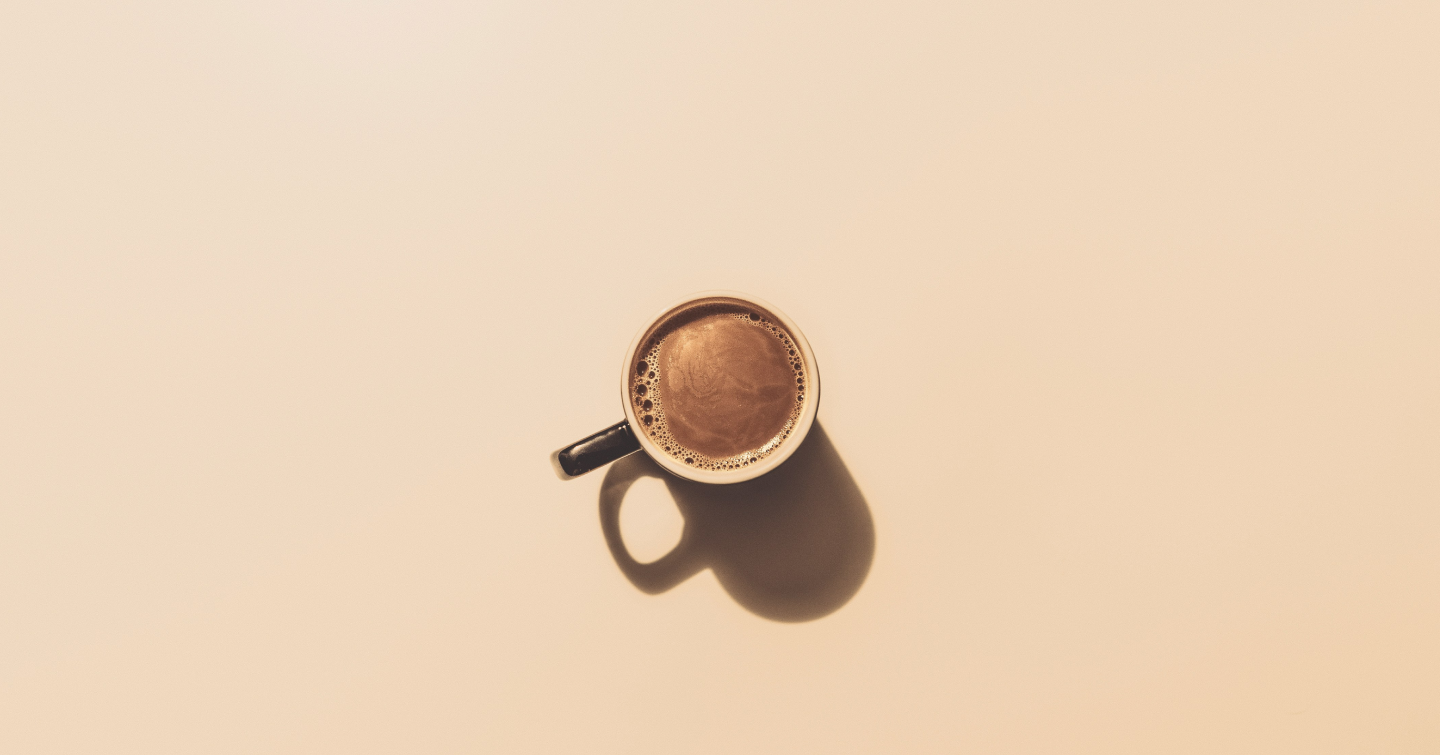
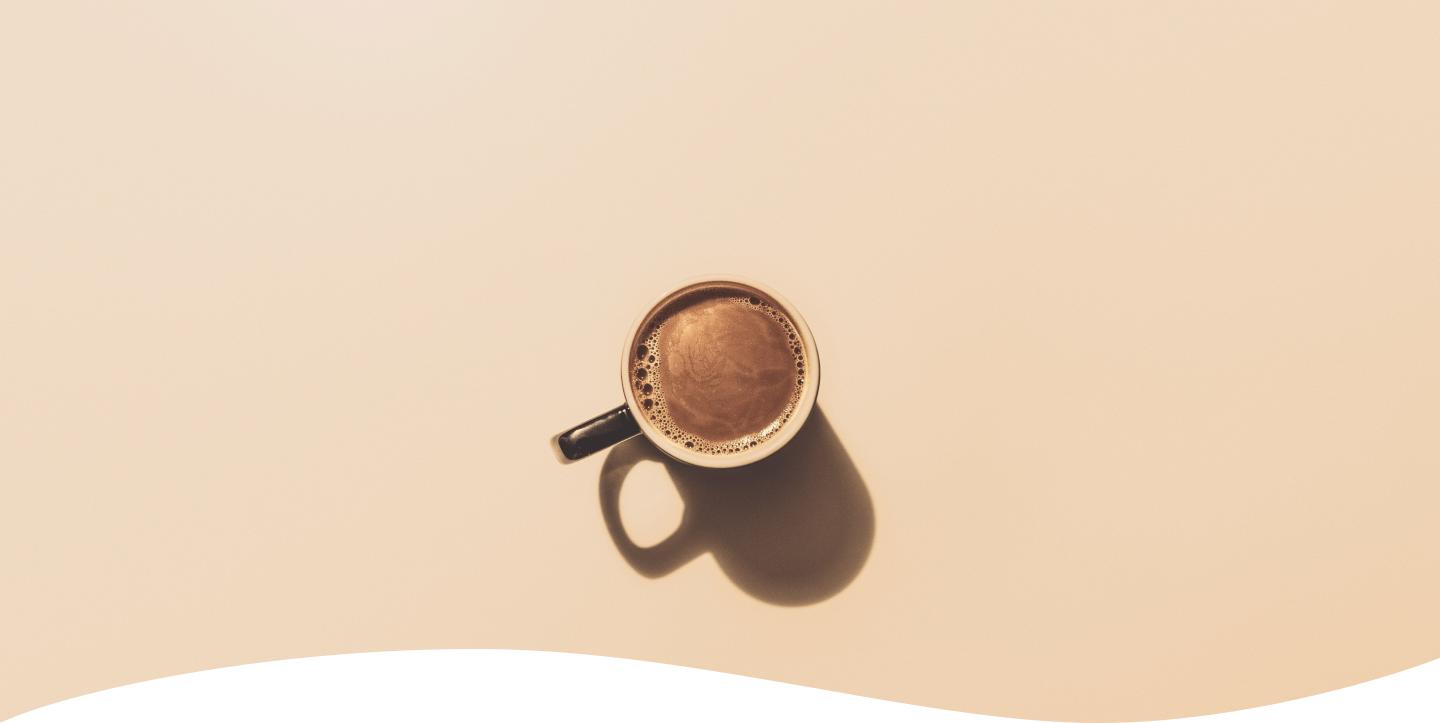
update bg image

diff --git a/index.html b/index.html
@@ -14,9 +14,7 @@
             <img style="width: 1440px; height: 755px; left: 0px; position: absolute" src="assets/images/homepage_bg.png"/>
             
             <!-- Logo -->
-            <div style="width: 1440px; height: 106px; left: 1440px; top: 821px; position: absolute; transform: rotate(180deg); transform-origin: 0 0; background: white"></div>
             <div style="left: 80px; top: 48px; position: absolute; color: #613400; font-size: 40px; font-family: Kanit; font-weight: 700; word-wrap: break-word">BetterDay</div>
-            
             <div style="left: 81px; top: 103px; position: absolute; flex-direction: column; justify-content: center; align-items: flex-start; display: inline-flex">
                 <div style="color: #613400; font-size: 24px; font-family: Karla; font-weight: 500; line-height: 22px; word-wrap: break-word">coffee shop</div>
             </div>
@@ -37,7 +35,7 @@
             </div>
 
             <!-- Our highlights heading -->
-            <div style="left: 74px; top: 753px; position: absolute; justify-content: flex-start; align-items: center; gap: 4px; display: inline-flex">
+            <div style="left: 74px; top: 775px; position: absolute; justify-content: flex-start; align-items: center; gap: 4px; display: inline-flex">
                 <div style="text-align: center; color: #613400; font-size: 36px; font-family: Karla; font-weight: 700; line-height: 40px; word-wrap: break-word">Our Highlights</div>
             </div>
             
@@ -61,20 +59,23 @@
                 </div>
             </div>
 
-            <div style="width: 58px; height: 58px; left: 67px; top: 730px; position: absolute; justify-content: center; align-items: center; display: inline-flex">
+            <!-- Down circle icon -->
+            <div style="width: 58px; height: 58px; left: 67px; top: 665px; position: absolute; justify-content: center; align-items: center; display: inline-flex">
                 <div style="width: 58px; height: 58px; position: relative; flex-direction: column; justify-content: flex-start; align-items: flex-start; display: flex">
-                    <div style="width: 50.75px; height: 50.75px; background: #613400"></div>
-                    <div style="width: 42.14px; height: 42.14px; background: white"></div>
+                    <img style="width: 50.75px; height: 50.75px;" src="assets/icons/down-circle.png"/>
                 </div>
             </div>
-            <div style="left: 1308px; top: 120px; position: absolute; justify-content: flex-start; align-items: center; gap: 4px; display: inline-flex">
+
+            <!-- Language -->
+            <div style="left: 1308px; top: 55px; position: absolute; justify-content: flex-start; align-items: center; gap: 4px; display: inline-flex">
                 <div style="color: rgba(47.81, 34.52, 18.93, 0.85); font-size: 16px; font-family: Roboto; font-weight: 500; line-height: 24px; word-wrap: break-word">ENG</div>
                 <div style="align-self: stretch; background: rgba(255, 255, 255, 0); flex-direction: column; justify-content: center; align-items: center; display: inline-flex">
                     <div style="width: 16px; height: 16px; position: relative">
-                        <div style="width: 13.57px; height: 9.14px; left: 1.21px; top: 3.43px; position: absolute; background: rgba(47.81, 34.52, 18.93, 0.85)"></div>
+                        <img style="width: 13.57px; height: 9.14px; left: 1.21px; top: 3.43px; position: absolute;" src="assets/icons/down-arrow.png" alt="Arrow icon" />
                     </div>
                 </div>
             </div>
+
         </div>
     </body>
 </html>
